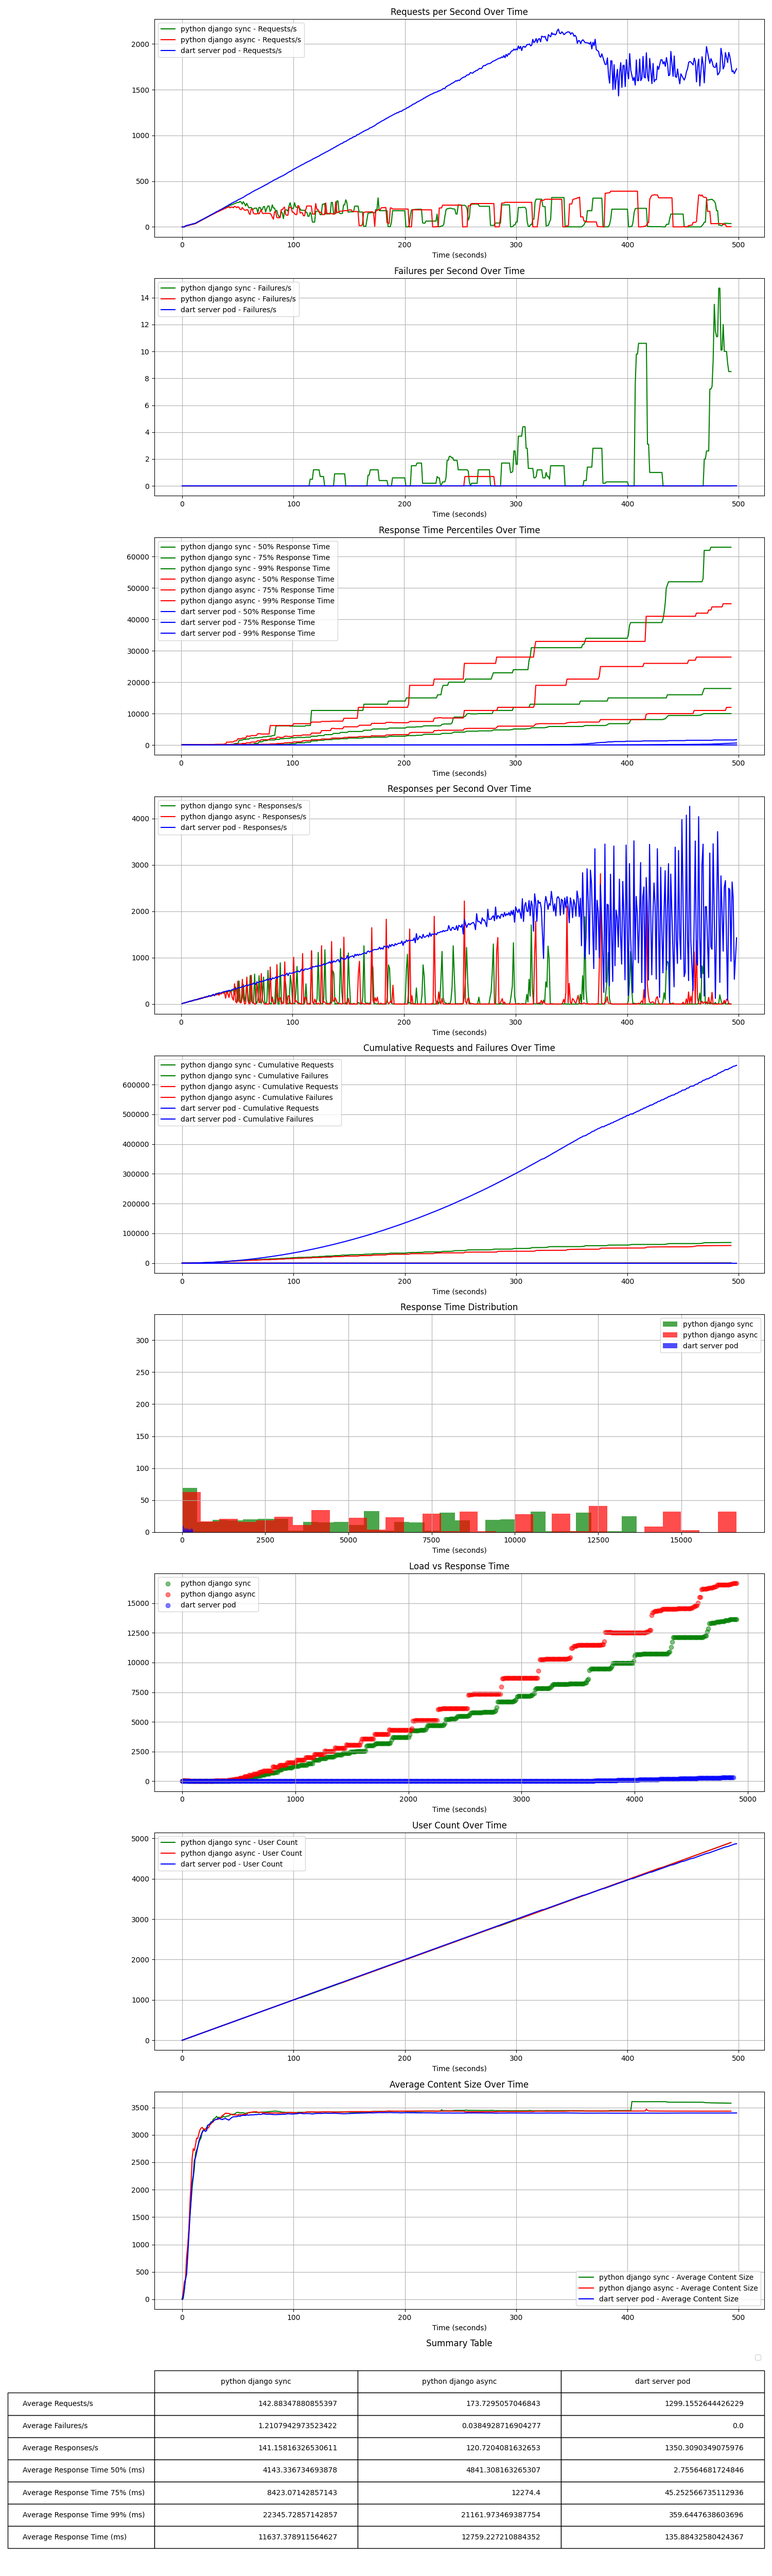
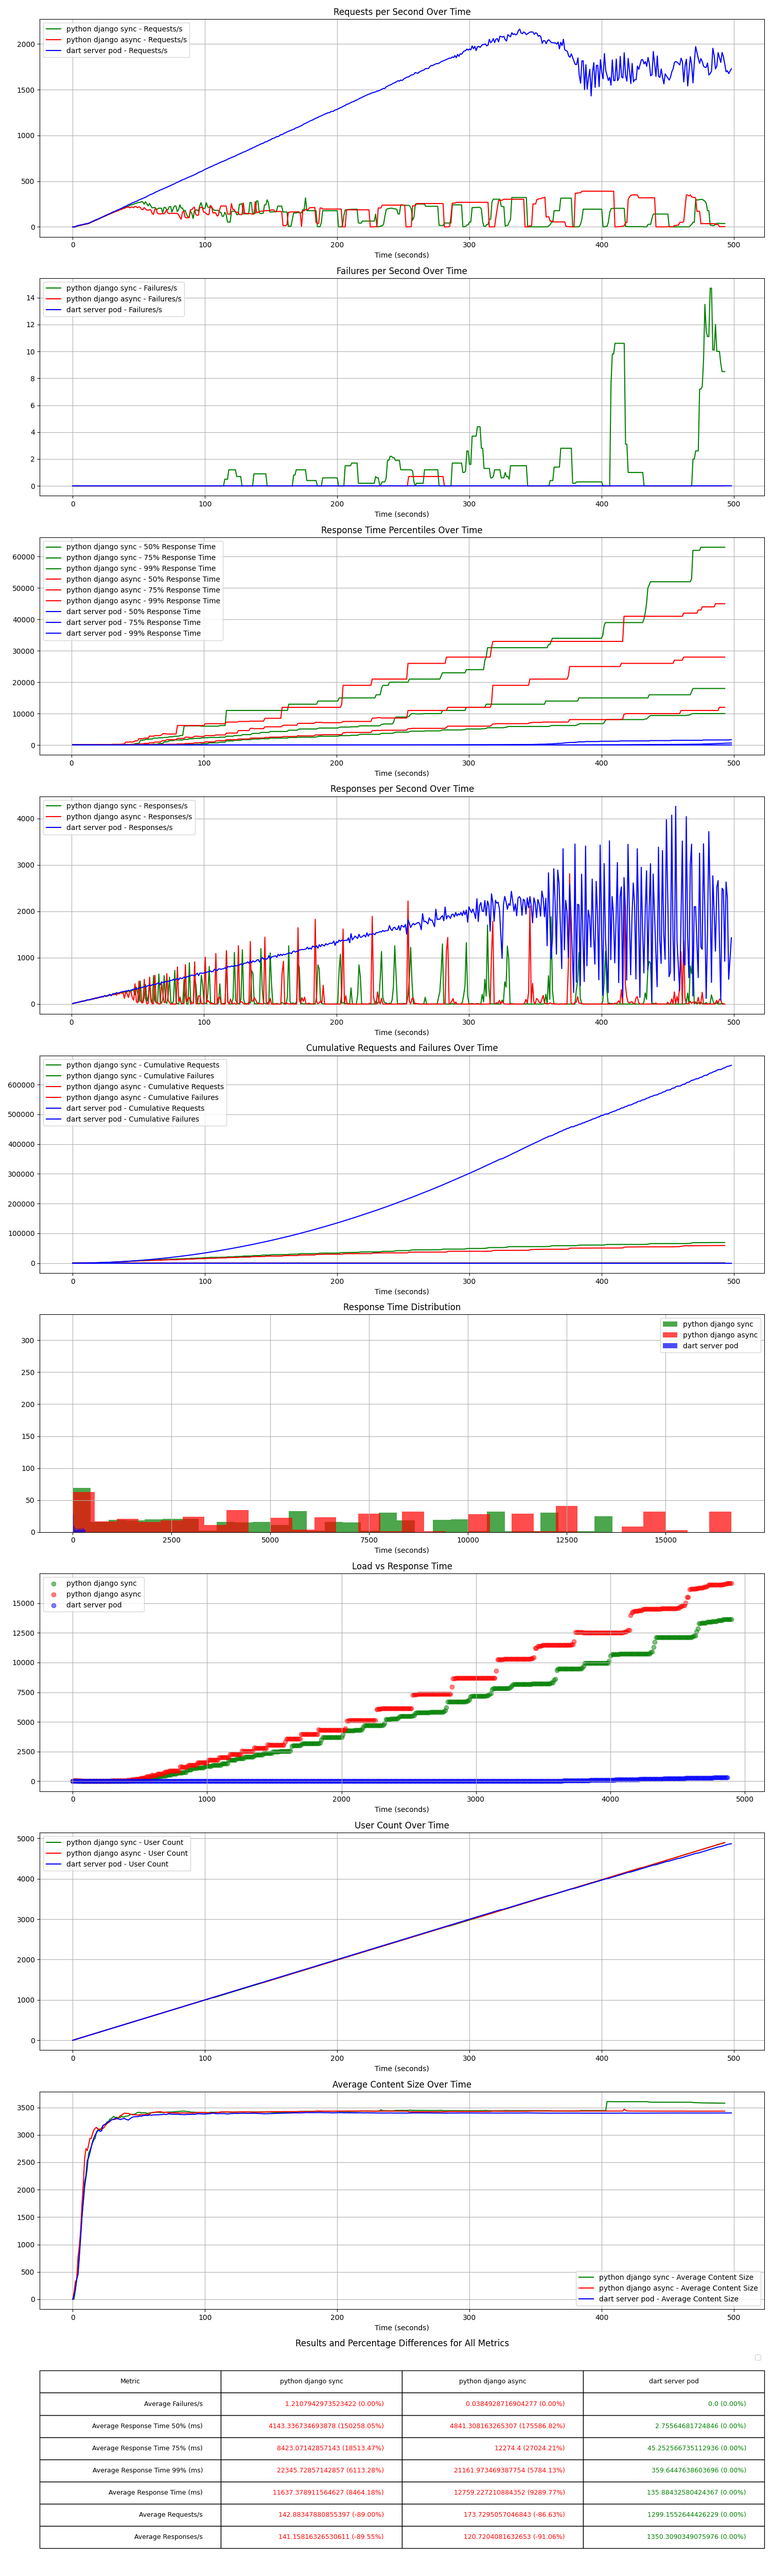
updated graphs

diff --git a/scripts/graphs/graph_generator.py b/scripts/graphs/graph_generator.py
@@ -31,28 +31,6 @@ def process_file(file_path):
     summary['Average Response Time (ms)'] = data['Response Time'].mean()
 
     return data,summary
-def _create_summary_table(all_summaries, axs):
-    # Convert summaries to numeric and process data for table
-    numeric_summaries = {path: validate_and_convert_to_numeric(summary) for path, summary in all_summaries.items()}
-    
-    # ... [rest of the plot_summary_of_all logic here, modified to fit within this function] ...
-    
-    # Creating the final summary table
-    extracted_cell_text = [[cell[0] if isinstance(cell, tuple) else cell for cell in row] for row in table_data]
-    table = axs.table(cellText=np.array(extracted_cell_text, dtype=object), colLabels=col_labels, loc='center')
-
-    for (i, j), cell in table.get_celld().items():
-        if i == 0 or j == 0:
-            continue
-        original_cell = table_data[i-1][j]
-        color = 'black'
-        if isinstance(original_cell, tuple) and len(original_cell) == 2:
-            color = original_cell[1]
-        cell.get_text().set_color(color)
-
-    table.auto_set_font_size(True)
-    table.scale(1, 2)
-    axs.set_title('Results and Percentage Differences for All Metrics', pad=20)
 
 def compare_and_plot(all_data, all_summaries):
     # Number of datasets
@@ -113,14 +91,15 @@ def compare_and_plot(all_data, all_summaries):
         ax.legend()
         ax.grid(True)
 
-    # Comprehensive Summary Table at the end
-    summary_df = pd.DataFrame(all_summaries)
-    table = axs[9].table(cellText=summary_df.values, rowLabels=summary_df.index, colLabels=summary_df.columns, loc='center')
-    table.auto_set_font_size(False)
-    table.set_fontsize(10)
-    table.scale(1, 2)
-    axs[9].axis('tight')
-    axs[9].axis('off')
+    # # Comprehensive Summary Table at the end
+    # summary_df = pd.DataFrame(all_summaries)
+    # table = axs[9].table(cellText=summary_df.values, rowLabels=summary_df.index, colLabels=summary_df.columns, loc='center')
+    # table.auto_set_font_size(False)
+    # table.set_fontsize(10)
+    # table.scale(1, 2)
+    # axs[9].axis('tight')
+    # axs[9].axis('off')
+    plot_summary_of_all(all_summaries, list(all_summaries.keys()), axs[-1])
 
     # Adjust layout
     plt.tight_layout()
@@ -222,8 +201,9 @@ def process_and_plot(data,summary):
     # Save plot
     plt.savefig(file_path.replace("benchmark_stats_history.csv","graph.png"))
 
+import pandas as pd
 
-def plot_summary_of_all(summaries, file_paths):
+def plot_summary_of_all(summaries, file_paths, ax):
     # Ensure summaries are numeric
     numeric_summaries = {path: validate_and_convert_to_numeric(summary) for path, summary in summaries.items()}
 
@@ -232,34 +212,6 @@ def plot_summary_of_all(summaries, file_paths):
                                'Average Response Time 75% (ms)', 'Average Response Time 99% (ms)',
                                'Average Response Time (ms)']
     higher_is_better_metrics = ['Average Requests/s', 'Average Responses/s']
-
-    for metric_set, title in [(lower_is_better_metrics, 'Lower is Better Metrics'), 
-                              (higher_is_better_metrics, 'Higher is Better Metrics')]:
-        filtered_summaries = {path: {metric: summary[metric] for metric in metric_set if metric in summary}
-                              for path, summary in numeric_summaries.items()}
-
-        # Create DataFrame from summaries
-        summary_df = pd.DataFrame(filtered_summaries).T
-
-        if not summary_df.empty:
-            # Sorting and calculating percentage differences
-            for metric in metric_set:
-                if metric in summary_df.columns:
-                    ascending = metric in lower_is_better_metrics
-                    summary_df.sort_values(by=metric, ascending=ascending, inplace=True)
-                    min_val = summary_df[metric].min() if ascending else summary_df[metric].max()
-                    summary_df[f'% Diff {metric}'] = ((summary_df[metric] - min_val) / min_val) * 100
-
-            # Plotting bar charts without color coding
-            fig, ax = plt.subplots(figsize=(15, 8))
-            summary_df[metric_set].plot(kind='bar', ax=ax)
-            plt.title(title)
-            plt.xlabel('File Path')
-            plt.ylabel('Values')
-            plt.xticks(rotation=45, ha='right')
-            plt.legend(metric_set)
-            plt.tight_layout()
-            plt.savefig(f'/mnt/data/summary_{title.replace(" ", "_").lower()}.png')
 
     # Combine all metrics into one set for table headers
     all_metrics = lower_is_better_metrics + higher_is_better_metrics
@@ -270,31 +222,19 @@ def plot_summary_of_all(summaries, file_paths):
         for metric in all_metrics:
             transposed_summaries[metric][path] = summary.get(metric, 'N/A')
 
-    # Sort file paths for each metric and calculate base values
-    sorted_file_paths = {}
-    base_values = {}
-    for metric in all_metrics:
-        is_lower_better = metric in lower_is_better_metrics
-        metric_values = {path: transposed_summaries[metric].get(path, float('inf') if is_lower_better else float('-inf')) 
-                        for path in file_paths}
-        sorted_paths = sorted(metric_values, key=metric_values.get, reverse=not is_lower_better)
-        sorted_file_paths[metric] = sorted_paths
-        base_values[metric] = metric_values[sorted_paths[0]] if sorted_paths else None
-
     # Initialize table data
     table_data = []
 
     # Prepare data for table
     for metric in all_metrics:
         row = [metric]
-        for path in sorted_file_paths[metric]:
+        for path in file_paths:
             val = transposed_summaries[metric].get(path, 'N/A')
-            if val != 'N/A' and base_values[metric] is not None:
-                base_val = base_values[metric]
-                diff_in_raw= val - base_val
+            if val != 'N/A':
+                base_val = min(transposed_summaries[metric].values()) if metric in lower_is_better_metrics else max(transposed_summaries[metric].values())
+                diff_in_raw = val - base_val
                 diff = ((diff_in_raw) / base_val) * 100 if base_val != 0 else 0
-                is_better = (diff_in_raw <= 0 and metric in lower_is_better_metrics) or \
-                            (diff_in_raw >= 0 and metric in higher_is_better_metrics)
+                is_better = (diff_in_raw <= 0 and metric in lower_is_better_metrics) or (diff_in_raw >= 0 and metric in higher_is_better_metrics)
                 color = 'green' if is_better else 'red'
                 formatted_val = f"{val} ({diff:.2f}%)"
             else:
@@ -303,43 +243,24 @@ def plot_summary_of_all(summaries, file_paths):
             row.append((formatted_val, color))
         table_data.append(row)
 
-    # Create a separate image for the table
-    fig, ax = plt.subplots(figsize=(15, 8))
-    ax.axis('tight')
-    ax.axis('off')
-
-    # Column labels with 'Metric' as the first column, then sorted file paths
-    col_labels = ['Metric'] + list(sorted_file_paths[all_metrics[0]])
+    # Extracting only the text part of each cell
+    extracted_cell_text = [[cell[0] if isinstance(cell, tuple) else cell for cell in row] for row in table_data]
+    col_labels = ['Metric'] + file_paths
 
     # Creating the table
-    # Creating the table with only the text part of each cell
-    # Adjust the cellText to extract only the first element of each tuple
-    extracted_cell_text = [[cell[0] if isinstance(cell, tuple) else cell for cell in row] for row in table_data]
     table = ax.table(cellText=np.array(extracted_cell_text, dtype=object), colLabels=col_labels, loc='center')
-
     for (i, j), cell in table.get_celld().items():
         if i == 0 or j == 0:
-            # Skip header or index cells
             continue
-
-        # Extract the data from your original data structure
-        original_cell = table_data[i-1][j]  # Adjust indices for headers
-        
-        color = 'black'
-
-        # Set color based on the tuple in the original data
-        if isinstance(original_cell, tuple) and len(original_cell) == 2:
-            color = original_cell[1]
-        # Set the color of the cell text
+        original_cell = table_data[i-1][j]
+        color = original_cell[1] if isinstance(original_cell, tuple) else 'black'
         cell.get_text().set_color(color)
-
 
     table.auto_set_font_size(True)
     table.scale(1, 2)
-    plt.title('Results and Percentage Differences for All Metrics', pad=20)
-    plt.tight_layout()
-    # plt.draw()
-    plt.savefig('/mnt/data/results_percentage_differences_all_metrics.png')
+    ax.axis('off')
+    ax.set_title('Results and Percentage Differences for All Metrics')
+
 # Function to validate and convert summary values to numeric
 def validate_and_convert_to_numeric(summary):
     numeric_summary = {}
@@ -377,6 +298,6 @@ for file_path in file_paths:
     all_data[adjusted_file_name] = data
 
 # Plot and save summary of all files
-plot_summary_of_all(all_summaries, list(all_summaries.keys()))
+# plot_summary_of_all(all_summaries, list(all_summaries.keys()))
 
 compare_and_plot(all_data, all_summaries)

diff --git a/README.md b/README.md
@@ -47,30 +47,13 @@ Tests consist of write and read requests. Write operations involve writing a sin
 
 Before delving into the detailed benchmark results, let's visualize the performance differences across the various backend technologies. These visual representations offer an immediate understanding of the comparative performance in terms of speed and load handling capabilities. Below are the benchmark graphs for different metrics.
 
-### Higher is Better Metrics
-This graph represents metrics where higher values indicate better performance. It includes attributes like requests per second, throughput, etc.
-
-![Higher is Better Metrics](summary_higher_is_better_metrics.png)
-
-### Lower is Better Metrics
-In contrast, this graph showcases metrics where lower values are preferable. These typically involve response times, error rates, and similar attributes.
-
-![Lower is Better Metrics](summary_lower_is_better_metrics.png)
-
-### Percentage Differences Across All Metrics
-This composite table illustrates the percentage differences across all metrics for a holistic view of performance contrasts between the tested backends.
-
-![Percentage Differences Across All Metrics](results_percentage_differences_all_metrics.png)
-
-
+## Comparison Graph
+![Comparison Graph](/mnt/data/comparison_graph.png)
 
 ## Benchmark Results
-
 
 | Attribute            | Django Async Backend | Django Sync Backend | Dart Serverpod Backend |
 |----------------------|----------------------|---------------------|------------------------|
 | Benchmark Graph      | ![Django Async Backend Benchmark Graph](/backends/python/django-async/tests/results/graph.png) | ![Django Sync Backend Benchmark Graph](/backends/python/django-sync/tests/results/graph.png) | ![Dart Serverpod Backend Benchmark Graph](/backends/dart/server-pod/benchmark/tests/results/graph.png) |
-
-
 
 These benchmarks provide valuable insights into the performance of various backend technologies. By analyzing these results, users can make informed decisions based on the specific requirements of their applications, such as speed and capacity to handle loads.
